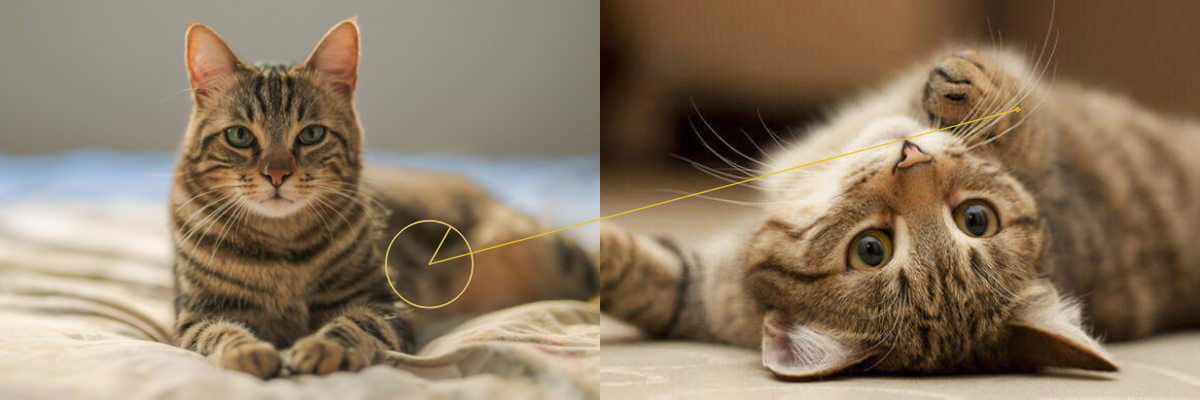
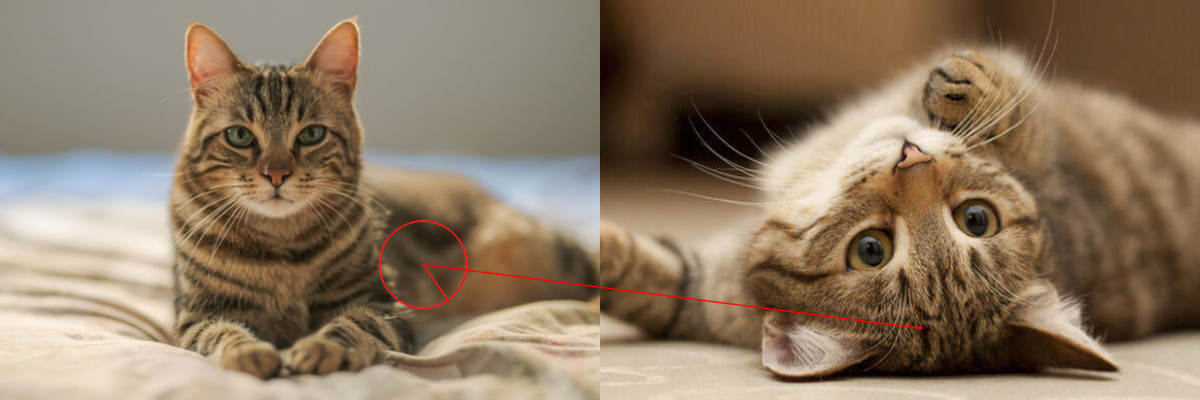
Update Q3b

diff --git a/src/main_3b.cpp b/src/main_3b.cpp
@@ -125,8 +125,8 @@ int main(int argc, char *argv[])
 
     // Convert images to grayscale for SIFT
     Mat imageGrayMat1, imageGrayMat2;
-    cvtColor(imageMat1,imageGrayMat1,COLOR_RGB2GRAY);
-    cvtColor(imageMat2,imageGrayMat2,COLOR_RGB2GRAY);
+    cvtColor(imageMat1,imageGrayMat1,COLOR_BGR2GRAY);
+    cvtColor(imageMat2,imageGrayMat2,COLOR_BGR2GRAY);
 
     // Extract keypoints and descriptors using OpenCV's SIFT
     Ptr<SIFT> sift = SIFT::create();
@@ -156,8 +156,8 @@ int main(int argc, char *argv[])
 
     // Visualize and export max-scale key points as an image
     Mat visualizationKeypoints1Max, visualizationKeypoints2Max;
-    drawKeypoints(imageMat1, keypoints1MaxVec, visualizationKeypoints1Max, Scalar::all(-1), DrawMatchesFlags::DRAW_RICH_KEYPOINTS);
-    drawKeypoints(imageMat2, keypoints2MaxVec, visualizationKeypoints2Max, Scalar::all(-1), DrawMatchesFlags::DRAW_RICH_KEYPOINTS);
+    drawKeypoints(imageMat1, keypoints1MaxVec, visualizationKeypoints1Max, Scalar(0, 0, 255), DrawMatchesFlags::DRAW_RICH_KEYPOINTS);
+    drawKeypoints(imageMat2, keypoints2MaxVec, visualizationKeypoints2Max, Scalar(0, 0, 255), DrawMatchesFlags::DRAW_RICH_KEYPOINTS);
     imwrite(input1FilenameNoExtension + "_max_keypoints.png", visualizationKeypoints1Max);
     imwrite(input2FilenameNoExtension + "_max_keypoints.png", visualizationKeypoints2Max);
 
@@ -174,7 +174,7 @@ int main(int argc, char *argv[])
 
     // Display the match
     Mat visualizationMat;
-    drawMatches(imageMat1, kp1, imageMat2, kp2, matches, visualizationMat, Scalar::all(-1), Scalar::all(-1), std::vector<char>(), DrawMatchesFlags::DRAW_RICH_KEYPOINTS);
+    drawMatches(imageMat1, kp1, imageMat2, kp2, matches, visualizationMat, Scalar(0, 0, 255), Scalar::all(-1), std::vector<char>(), DrawMatchesFlags::DRAW_RICH_KEYPOINTS);
     imwrite(input1FilenameNoExtension + "_and_" + input2FilenameNoExtension + "_match.png", visualizationMat);
 
     std::cout << "Done" << std::endl;
